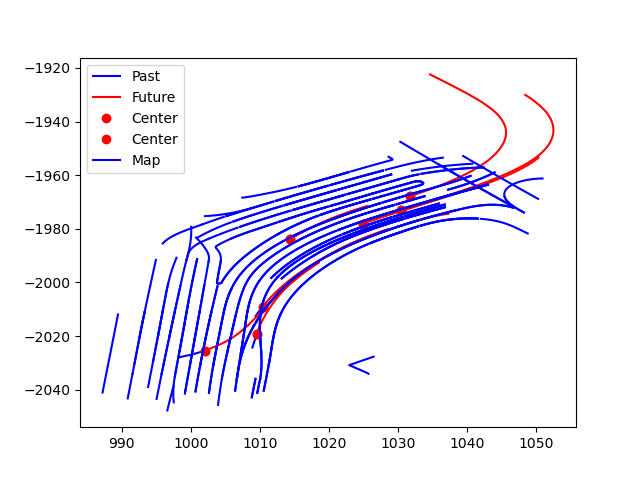
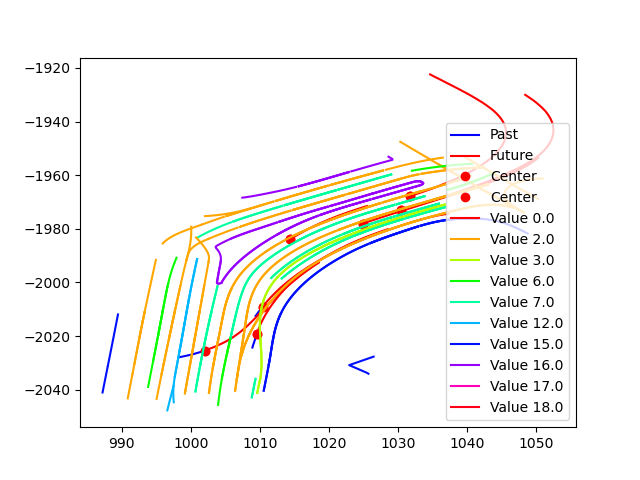
为不同车道类型的添加了颜色

Changed region(s): [[0.1875, 0.25, 0.9062, 0.875], [0.125, 0.125, 0.2812, 0.3438], [0.8438, 0.25, 0.875, 0.3125]]

diff --git a/polyline_handle.py b/polyline_handle.py
@@ -255,16 +255,39 @@ print(map_polylines[:,:,:,6])
 # 统计map_polylines[:,:,:,6]的值，有几种
 print(np.unique(map_polylines[:,:,:,6].numpy()))
 
+
+# 获取唯一值
+unique_values = np.unique(map_polylines[:, :, :, 6].numpy())
+colors = plt.get_cmap('hsv', len(unique_values))
+
+# 创建一个字典，将唯一值映射到颜色
+value_to_color = {value: colors(i) for i, value in enumerate(unique_values)}
+
+# 创建一个字典，将唯一值映射到图例标签
+value_to_label = {value: f'Value {value}' for value in unique_values}
+
 for i in range(1, num_center_objects):
     plt.plot(center_objects[i, 0], center_objects[i, 1], 'ro', label='Center' if i == 1 else "")
     
-    for j in range( num_of_src_polylines):
+    for j in range(num_of_src_polylines):
         # 排除掉（0，0）
         valid_points = (map_polylines[i, j, :, 0] != 0) | (map_polylines[i, j, :, 1] != 0)
-        plt.plot(map_polylines[i, j, valid_points, 0], map_polylines[i, j, valid_points, 1], 'b', label='Map' if i == 1 and j == 0 else "")
-        # plt.plot(map_polylines[i, j, :, 0], map_polylines[i, j, :, 1], 'b', label='Map' if i == 1 and j == 0 else "")
+        valid_values = map_polylines[i, j, valid_points, -1].numpy()
+        
+        for value in np.unique(valid_values):
+            color = value_to_color[value]  # 获取对应的颜色
+            points = map_polylines[i, j, valid_points, :][map_polylines[i, j, valid_points, -1].numpy() == value]
+            plt.plot(points[:, 0], points[:, 1], color=color)
+
+
+# 添加图例
+for value in unique_values:
+    color = value_to_color[value]
+    plt.plot([], [], color = color, label=f'Value {value}')
 
 plt.legend()
+
+# 保存并显示图像
 plt.savefig('map_polylines.png')
 plt.show()
 
